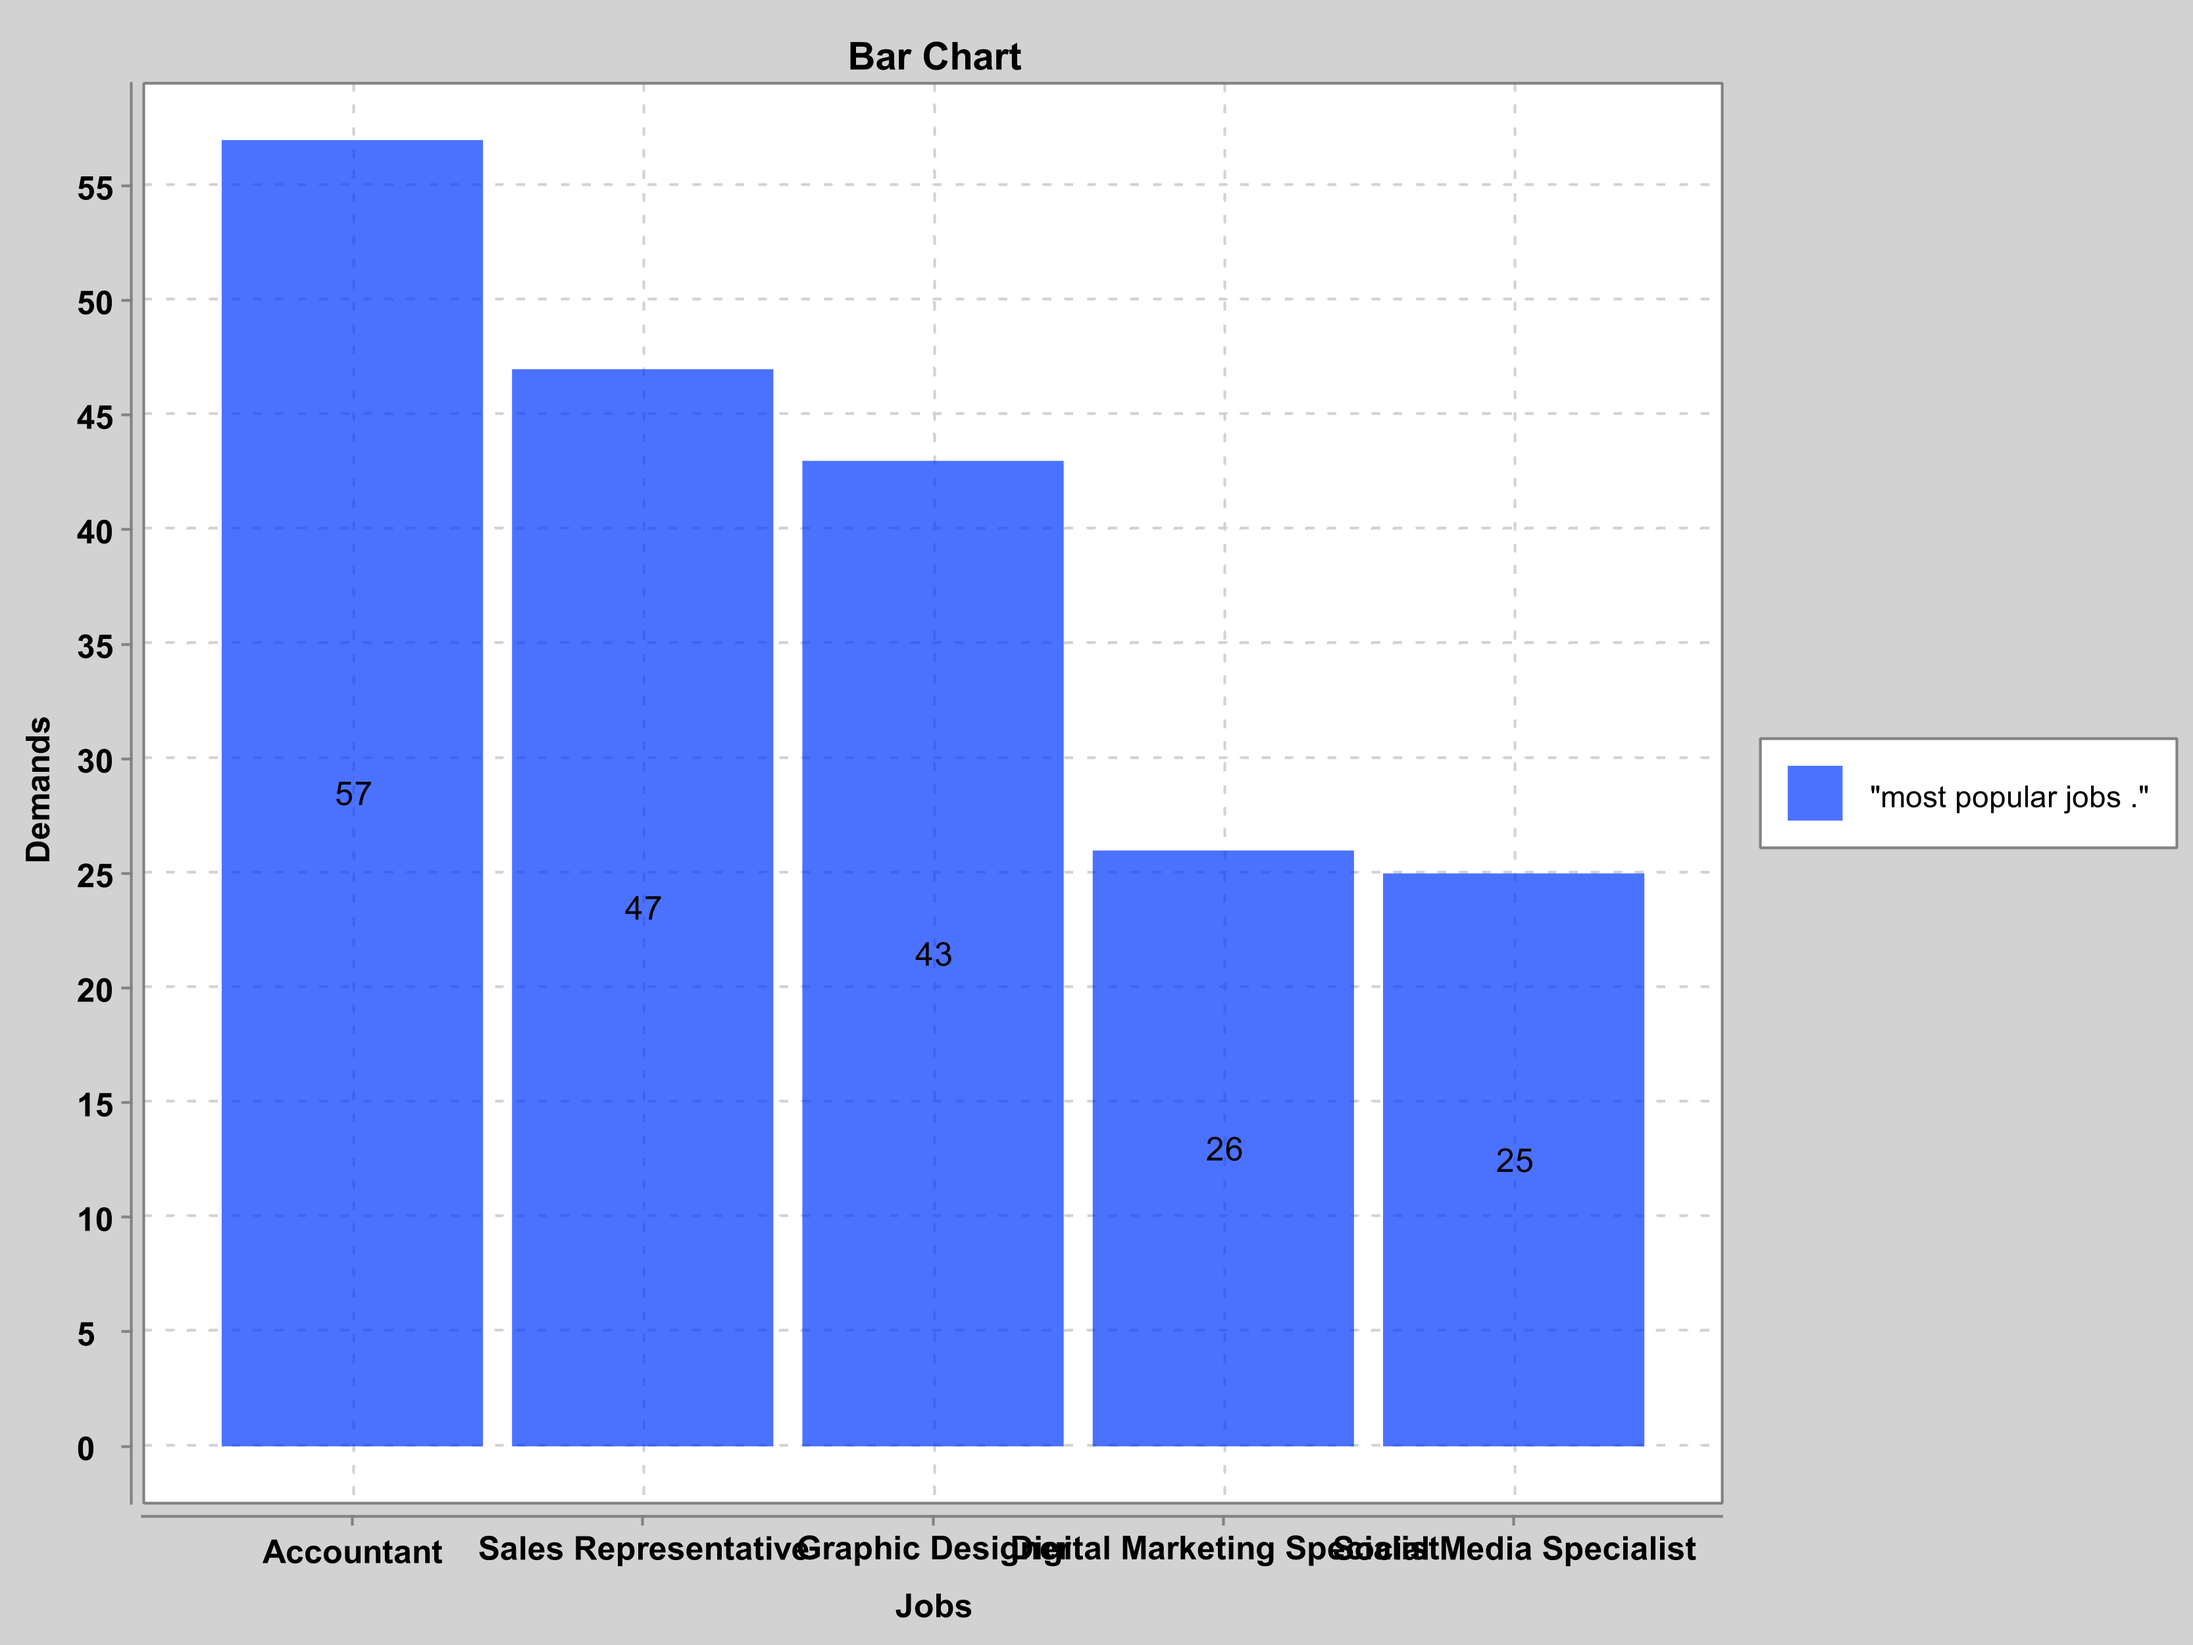
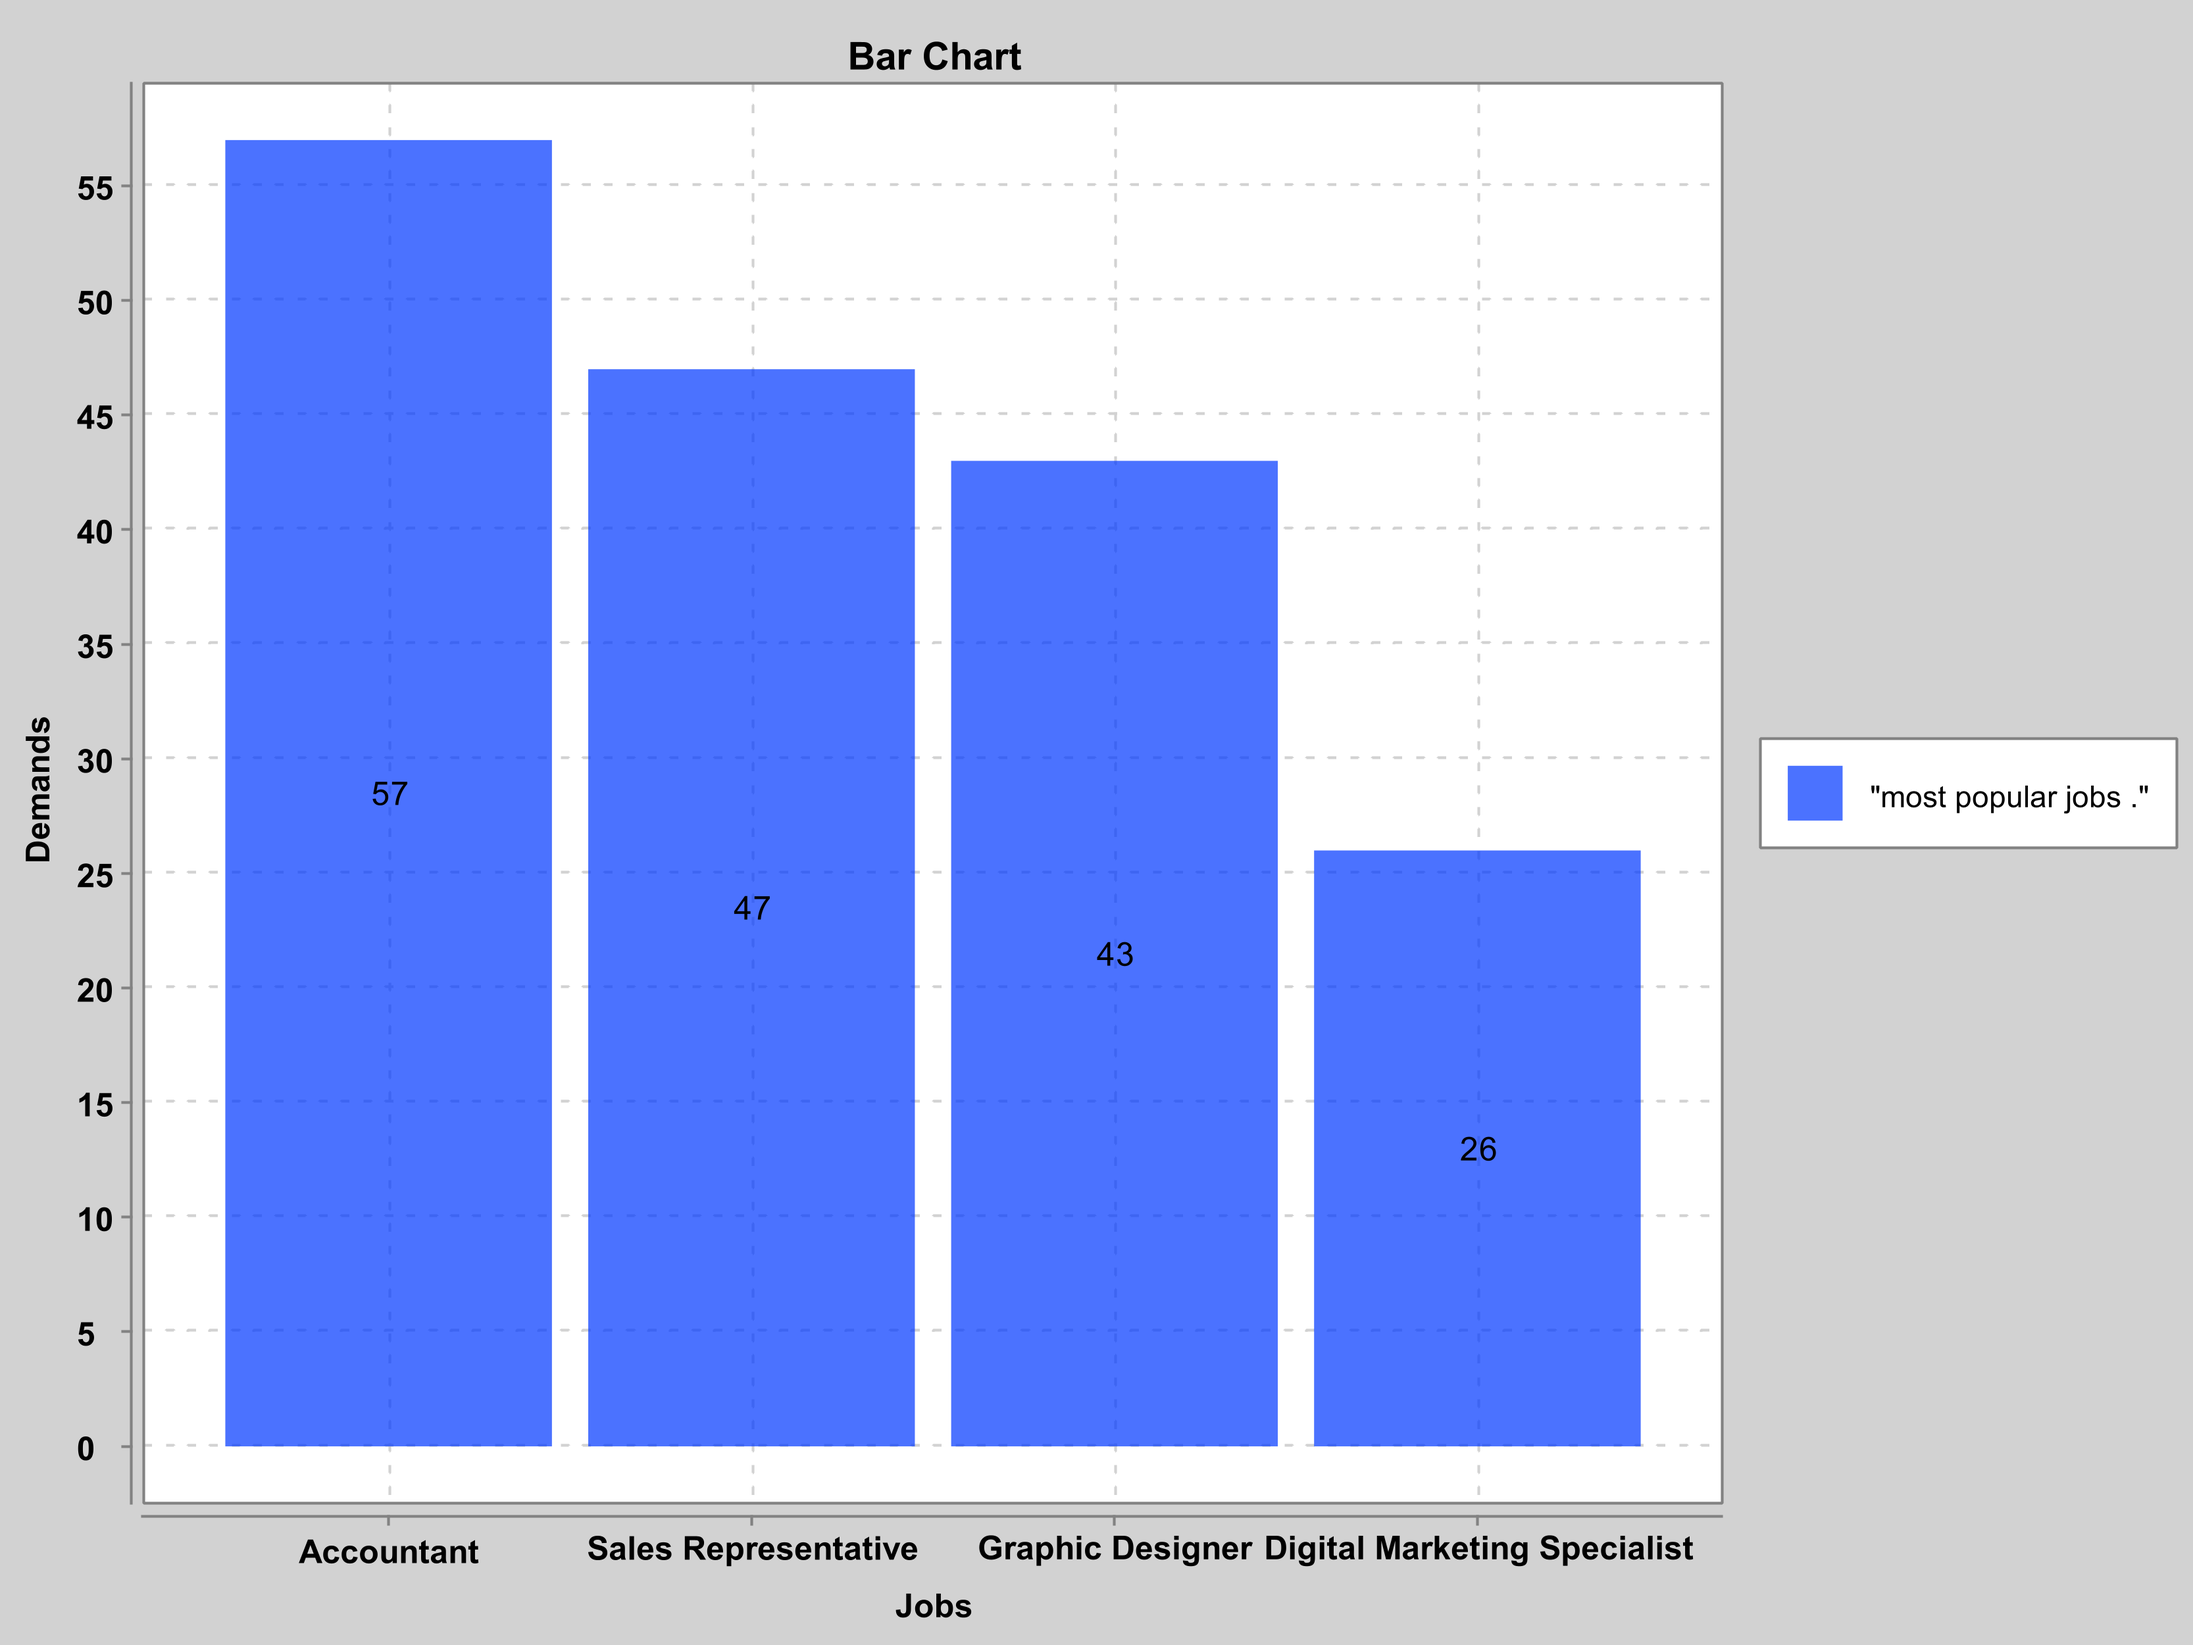
First Commit for my branch

diff --git a/src/main/java/com/example/Java_Project_G7/Visualize.java b/src/main/java/com/example/Java_Project_G7/Visualize.java
@@ -2,12 +2,20 @@ package com.example.Java_Project_G7;
 
 import com.aol.cyclops.control.LazyReact;
 import joinery.DataFrame;
+import org.knowm.xchart.PieChart;
 import org.knowm.xchart.*;
 
 import java.io.IOException;
-import java.util.*;
 import java.util.function.Function;
 import java.util.stream.Collectors;
+
+import java.util.ArrayList;
+import java.util.Comparator;
+import java.util.LinkedHashMap;
+import java.util.List;
+import java.util.Map;
+
+
 
 public class Visualize {
 
@@ -20,12 +28,15 @@ public class Visualize {
 
 
     public Visualize() throws IOException {
-       this.df = DataFrame.readCsv(path);
+        this.df = DataFrame.readCsv(path);
 
 
     }
 
-    public  void  drawPieChartjobs() throws IOException {
+
+
+//   4. function Count the jobs for each company and display that in order
+    public LinkedHashMap<String, Long> SortedCompinesCount(){
 
 
         //Task 4: Code to get most demanding Companies.
@@ -58,7 +69,14 @@ public class Visualize {
         }
 
         System.out.println(sep);
+        return sortedCompanies; 
 
+    }
+    // Function Get Piechart most demanding companies for jobs
+    public  void  drawPieChartjobs( ) throws IOException {
+
+
+        LinkedHashMap<String, Long> sortedCompanies = SortedCompinesCount();
         List<String> Company_counter_keys = new ArrayList<>(sortedCompanies.keySet());
 
         List<String> Company_keys_chart = new ArrayList<>();
@@ -88,9 +106,9 @@ public class Visualize {
     //End of Task 5.
 
 
-
-
-    public  void drawBarChartjobs() throws IOException {
+//  6 6.	Find out what are the most popular job titles.
+    
+    public LinkedHashMap<String, Long> GetMostPopularJobsTitle(){
         //Task 6: Code to get most popular Title.
         List<Object> Title = df.col("Title");
         List<String> Title_String = LazyReact.sequentialBuilder()
@@ -101,7 +119,7 @@ public class Visualize {
         Map<String, Long> Title_counter = Title_String.stream()
                 .collect(Collectors.groupingBy(Function.identity(), Collectors.counting()));
 
-
+        // sorted titles has title of job and count 
         LinkedHashMap<String, Long> sortedTitles = new LinkedHashMap<>();
 
         Title_counter.entrySet()
@@ -121,6 +139,13 @@ public class Visualize {
             }
         }
         System.out.println(sep);
+        return sortedTitles ;
+
+
+    }
+
+    public  void drawBarChartjobs() throws IOException {
+        LinkedHashMap<String, Long> sortedTitles = GetMostPopularJobsTitle();
 
         List<Long> Title_counter_values = new ArrayList<>(sortedTitles.values());
         List<Double> double_values = Title_counter_values.stream()
@@ -134,8 +159,8 @@ public class Visualize {
         List<String> Title_keys_chart = new ArrayList<>();
         List<Double> vals_chart = new ArrayList<>();
 
-        Title_keys_chart = Title_counter_keys.subList(0, 5);
-        vals_chart = double_values_arr.subList(0, 5);
+        Title_keys_chart = Title_counter_keys.subList(0, 4);
+        vals_chart = double_values_arr.subList(0, 4);
 
         CategoryChart chart = new CategoryChartBuilder().width(800).height(600).title("Bar Chart").xAxisTitle("Jobs").yAxisTitle("Demands").build();
         chart.getStyler().setHasAnnotations(true);
@@ -152,7 +177,11 @@ public class Visualize {
 
 
     //Task 8: Code to get most popular Area
-    public  void drawBarChartArea() {
+
+    // 8.	 function Get Find out the most popular areas
+
+    public LinkedHashMap<String, Long> GetMostPopularArea(){
+
         List<Object> Area = this.df.col("Location");
         List<String> Area_String = LazyReact.sequentialBuilder()
                 .from(Area)
@@ -181,6 +210,10 @@ public class Visualize {
             }
         }
         System.out.println(sep);
+        return sortedAreas;
+    }
+    public  void drawBarChartArea() {
+        LinkedHashMap<String, Long> sortedAreas = GetMostPopularArea();
 
         List<Long> Area_counter_values = new ArrayList<>(sortedAreas.values());
         List<Double> Area_double_values = Area_counter_values.stream()
@@ -209,10 +242,8 @@ public class Visualize {
 
 
     }
-    //End of task 8
+    //End of task 9
 
 
 
 }
-
-

diff --git a/src/main/java/com/example/Java_Project_G7/Test_Web_Service.java b/src/main/java/com/example/Java_Project_G7/Test_Web_Service.java
@@ -1,7 +1,70 @@
 package com.example.Java_Project_G7;
 
+import org.apache.commons.io.FileUtils;
+import org.springframework.http.MediaType;
+import org.springframework.http.ResponseEntity;
+import org.springframework.web.bind.annotation.GetMapping;
+import org.springframework.web.bind.annotation.RestController;
 
+import java.io.File;
+import java.io.IOException;
+
+@RestController
 
 public class Test_Web_Service {
+
+    @GetMapping("/drawPieChartjobs")
+
+
+    public ResponseEntity<byte[]> drawPieChartjobs() throws IOException {
+
+        Visualize v = new Visualize ();
+
+        v.drawPieChartjobs();
+        byte[] image = new byte[0];
+        try {
+            image = FileUtils.readFileToByteArray(new File("src/main/resources/Step5_pieChart.png"));
+        } catch (IOException e) {
+            e.printStackTrace();
+        }
+        return ResponseEntity.ok().contentType(MediaType.IMAGE_JPEG).body(image);}
+
+//    Step5_BieChart
+
+    @GetMapping("/DrawBarChartAreas")
+
+    public ResponseEntity<byte[]> getBarChartArea() throws IOException {
+        Visualize v = new Visualize ();
+
+        v.drawBarChartArea();
+        byte[] image = new byte[0];
+        try {
+            image = FileUtils.readFileToByteArray(new File("src/main/resources/Step9_BarChartArea.png"));
+        } catch (IOException e) {
+            e.printStackTrace();
+        }
+        return ResponseEntity.ok().contentType(MediaType.IMAGE_JPEG).body(image);}
+
+    @GetMapping("/DrawBarChartJobs")
+
+
+    public ResponseEntity<byte[]> getBarChartJobs() throws IOException {
+
+        Visualize v = new Visualize ();
+
+        v.drawBarChartjobs();
+        byte[] image = new byte[0];
+        try {
+            image = FileUtils.readFileToByteArray(new File("src/main/resources/Step7_BarChartjobs.png"));
+        } catch (IOException e) {
+            e.printStackTrace();
+        }
+        return ResponseEntity.ok().contentType(MediaType.IMAGE_JPEG).body(image);}
+
+
+
+
+
+
 
 }
